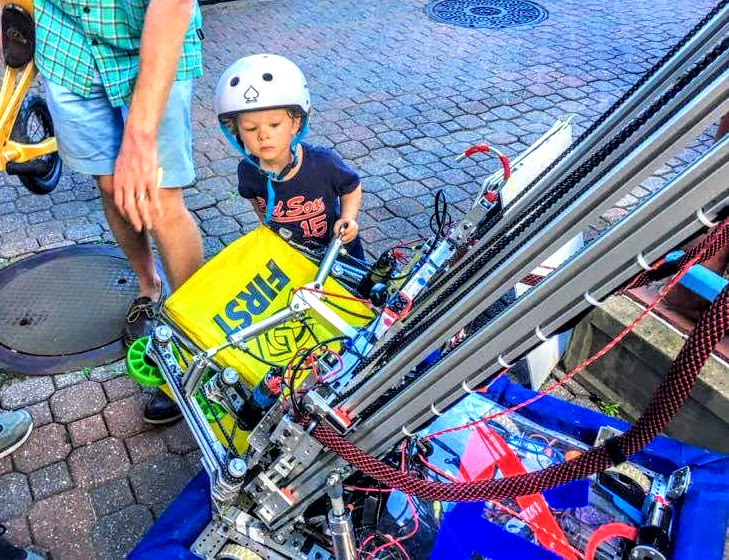
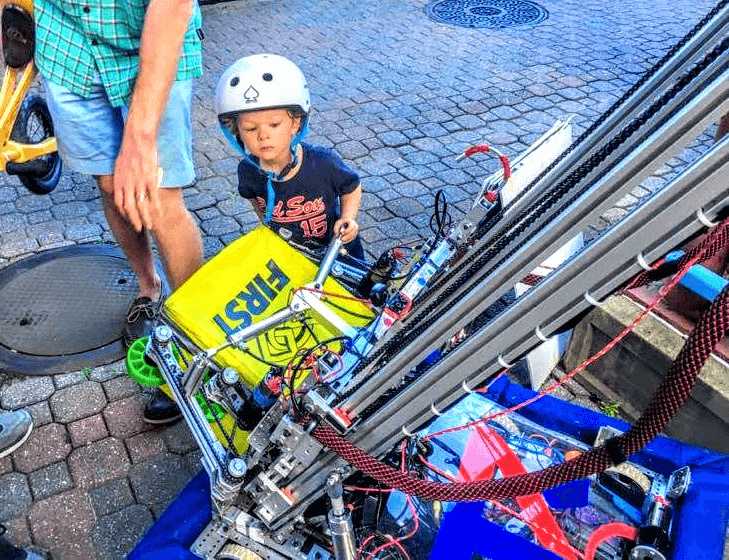
Tweak styling and compress images on robots page

diff --git a/_pages/robots.html b/_pages/robots.html
@@ -5,15 +5,14 @@ stylesheets:
 - robots
 ---
 <div class="container marketing">
-    <div class="row featurette">
-
+    <div class="row">
         <div class="col-md-7">
             <h2 class="featurette-heading">Guilloutina: <span class="text-muted">Deep Space 2019</span></h2>
             <p class="lead">Built for the 2019 FRC Game, <a href="https://www.youtube.com/watch?v=Mew6G_og-PI">Deep
                     Space</a>, <a href="https://youtu.be/3tR3MnF3JjI">Guilloutina</a> was
-                designed to place balls and hatch panels at all three levels of the rocket. During sandstorm,
-                it can be controlled through driver cameras and vision code to align onto field targets,
-                allowing scoring on the cargoship and rocket.</p>
+                designed to place balls and hatch panels at all three levels of the rocket. During the
+                sandstorm period, it can be controlled through driver cameras and vision code to align
+                onto field targets, allowing scoring on the cargoship and rocket.</p>
         </div>
 
         <div class="col-md-5">
@@ -23,7 +22,7 @@ stylesheets:
 
     <hr class="featurette-divider">
 
-    <div class="row featurette">
+    <div class="row">
         <div class="col-md-7 order-md-2">
             <h2 class="featurette-heading">Kernbread: <span class="text-muted">Power Up 2018</span></h2>
             <p class="lead">Our robot from the 2018 FRC game
@@ -42,7 +41,7 @@ stylesheets:
 
     <hr class="featurette-divider">
 
-    <div class="row featurette">
+    <div class="row">
         <div class="col-md-7">
             <h2 class="featurette-heading">Kernflake: <span class="text-muted">Offseason 2018</span></h2>
             <p class="lead">Kernflake began in the 2017 offseason as our practice drive train, proving useful for
@@ -61,7 +60,7 @@ stylesheets:
 
     <hr class="featurette-divider">
 
-    <div class="row featurette">
+    <div class="row">
         <div class="col-md-7 order-md-2">
             <h2 class="featurette-heading">Good Vibes: <span class="text-muted">Steamworks 2017</span></h2>
             <p class="lead">Our robot from the 2017 FRC game <a
@@ -78,7 +77,7 @@ stylesheets:
 
     <hr class="featurette-divider">
 
-    <div class="row featurette">
+    <div class="row">
         <div class="col-md-7">
             <h2 class="featurette-heading">Caligula: <span class="text-muted">Stronghold 2016</span></h2>
             <p class="lead">Our robot from the 2016 FRC game <a
@@ -94,7 +93,7 @@ stylesheets:
 
     <hr class="featurette-divider">
 
-    <div class="row featurette">
+    <div class="row">
         <div class="col-md-7 order-md-2">
             <h2 class="featurette-heading">Christopher: <span class="text-muted">Recycle Rush 2015</span></h2>
             <p class="lead">Our robot from the 2015 FRC game <a

diff --git a/assets/styles/robots.scss b/assets/styles/robots.scss
@@ -1,24 +1,25 @@
 ---
 ---
-body{
-  padding-top:70px;
-  padding-bottom: 2%
-}
 
-@media(max-width:1030px){
-  body{
-    padding-top: 70px !important;
-  }
+body {
+  padding-top: 0;
 }
 
 .container {
   padding-top: 60px !important;
 }
 
-.featurette-divider{
-  border-color:white !important;
+.row {
+  align-items: center;
+  justify-content: space-between;
+  margin-top: 50px;
+  margin-bottom: 50px;
 }
 
-.featurette-image{
-  width: 100% !important; 
+.featurette-divider {
+  border-color: #6c757d;
+}
+
+.featurette-image {
+  width: 100% !important;
 }

diff --git a/assets/styles/shared.scss b/assets/styles/shared.scss
@@ -1,6 +1,6 @@
 ---
 ---
-html body {
+body {
     background-color: #212322;
     color: white;
     padding-top: 70px;
